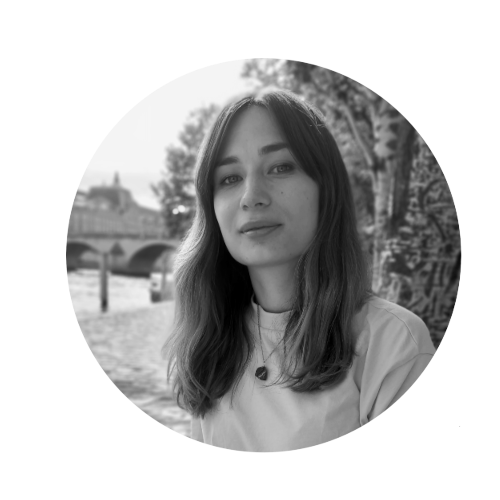
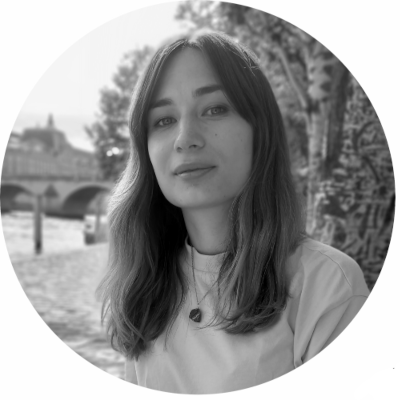
photo
photo

diff --git a/styles.css b/styles.css
@@ -176,8 +176,9 @@ section {
 	padding-top: 50px;
 	padding-bottom: 15px;
 	padding-left: 100px;
-    max-width: 150px;
-    height: auto;	
+    max-width: 120px;
+    width: 120px; /* Smaller width for mobile */
+    height: 120px;	
 }
 
 .name-photo{
@@ -416,11 +417,12 @@ footer {
     }
 
     .description-photo {
-        max-width: 60%; /* Reduce the image size */
-        height: auto;
+        width: 170px; /* Smaller width for mobile */
+        height: 170px;
         margin: 0 auto; /* Center the photo */
-		padding-left: 5px;
+		padding-left: 0;
 		padding-top: 10px; /* Adjust this value */
+		max-width: 170px;
     }
 
     .name-photo {
